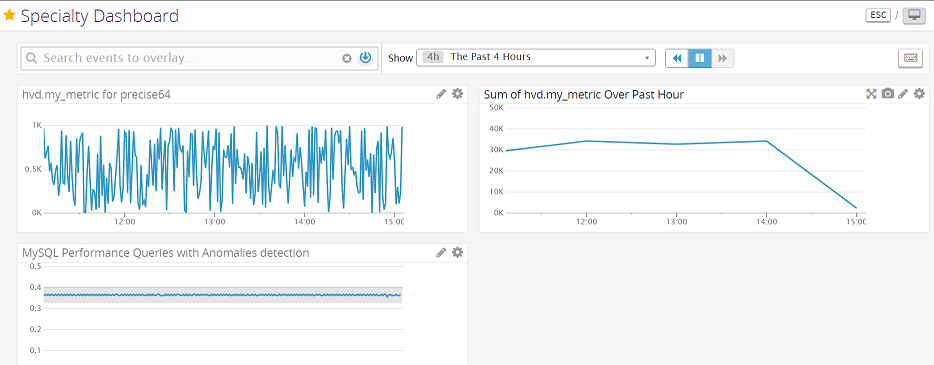
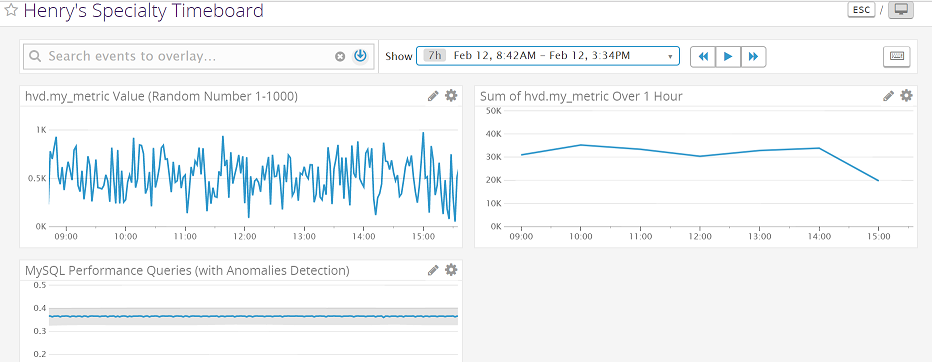
updates to answers.md and new image for specialty timeboard

diff --git a/answers.md b/answers.md
@@ -89,7 +89,8 @@ for "mysql" to see newly available metrics:
 Follow instructions [here](https://docs.datadoghq.com/agent/agent_checks/) 
 to create a custom Agent check.
 
-Here's an example of a custom Agent check (`/etc/dd-agent/checks.d/my_check.py`)
+Here's an example of a custom Agent check (`/etc/dd-agent/checks.d/my_check.py`, 
+GitHub link [here](https://github.com/henrydoan/hiring-engineers/blob/master/my_check.py))
 that submits a metric named `hvd.my_metric` with a random value between 
 0 and 1000:
 
@@ -107,7 +108,8 @@ if __name__ == '__main__':
     check.check(instance)
     print 'Metrics: %s' % (check.get_metrics())
 ```
-Here's the corresponding yaml file (`/etc/dd-agent/conf.d/my_check.yaml`):
+Here's the corresponding yaml file (`/etc/dd-agent/conf.d/my_check.yaml`, GitHub
+link [here](https://github.com/henrydoan/hiring-engineers/blob/master/my_check.yaml)):
 
 ```yaml
 init_config:
@@ -115,7 +117,6 @@ init_config:
 instances:
       [{}]
 ```
-
 
 ### Bonus Question
 
@@ -133,21 +134,99 @@ init_config:
 
 # Visualizing Data
 
-### TimeBoards
+### TimeBoards 
 
-Here's a TimeBoard that displays the custom metric from above scoped 
-over the host it's configured on, that metric with the rollup function 
-applied, and the MySQL Performance Queries metric (anomaly function 
-applied): 
-
-
-Link [here](https://app.datadoghq.com/dash/560047/specialty-dashboard?live=true&page=0&is_auto=false&from_ts=1518372516895&to_ts=1518386916895&tile_size=m)
-
-Screenshot:
+["Henry's Specialty Timeboard"](https://app.datadoghq.com/dash/563327/henrys-specialty-timeboard?live=false&page=0&is_auto=false&from_ts=1518450156022&to_ts=1518474891505&tile_size=m&tv_mode=true)
+displays: 
+- `hvd.my_metric` custom metric scoped over the host it's configured on
+- `hvd.my_metric` with the rollup function applied
+- MySQL Performance Queries metric (anomaly function applied)
 
 ![specialty_timeboard](images/specialty_timeboard.png)
 
-### On-Demand Time Range Selection and Snapshots/Annotations
+### Customize Views in Code
+
+The TimeBoard above was created via a [custom script](https://github.com/henrydoan/hiring-engineers/blob/master/hvdTimeboard.py)
+leveraging the Datadog API (more details [here](https://docs.datadoghq.com/api/?lang=python#create-a-timeboard)). 
+
+```python
+from datadog import initialize, api
+
+options = {
+    'api_key': 'd81b4c03c052be98c0b368cf8606ba68',
+    'app_key': '67f28e01e42e14f2273b8cfaca23ea88921574d5'
+}
+
+initialize(**options)
+
+title = "Henry's Specialty Timeboard"
+description = "Timeboard for Henry Doan's recruiting candidate exercise"
+graphs = [{
+	"definition": {
+		"viz": "timeseries",
+		"requests": [
+       		  {
+               		"q": "avg:hvd.my_metric{host:precise64}",
+               		"type": "line",
+               		"style": {
+                       		"palette": "dog_classic",
+                       		"type": "solid",
+                       		"width": "normal"
+               		},
+               		"conditional_formats": [],
+               		"aggregator": "avg"
+       		  }
+        	],
+   	},
+    	"title": "hvd.my_metric Value (Random Number 1-1000)"
+},
+{
+   	"definition": {
+  		"viz": "timeseries",
+  		"requests": [
+    		  {
+      			"q": "avg:hvd.my_metric{host:precise64}.rollup(sum, 3600)",
+      			"type": "line",
+      			"style": {
+        			"palette": "dog_classic",
+        			"type": "solid",
+        		"width": "normal"
+      		  	},
+      		"conditional_formats": [],
+      		"aggregator": "avg"
+    		  }
+  		],
+	},
+	"title": "Sum of hvd.my_metric Over 1 Hour"
+},
+{
+        "definition": {
+                "viz": "timeseries",
+                "requests": [
+                  {
+			"q": "anomalies(avg:mysql.performance.queries{host:precise64}, 'adaptive', 2)",
+                        "type": "line",
+                        "style": {
+                                "palette": "dog_classic",
+                                "type": "solid",
+                        	"width": "normal"
+                        },
+                "conditional_formats": [],
+                "aggregator": "avg"
+                  }
+                ],
+        },
+        "title": "MySQL Performance Queries (with Anomalies Detection)"
+}]
+
+read_only = True
+api.Timeboard.create(title=title,
+                     description=description,
+                     graphs=graphs,
+                     read_only=read_only)
+```
+
+### On-Demand Time Range Selection
 
 To specify a time range you're interested in, simply click-and-drag
 that section of the graph:
@@ -158,6 +237,8 @@ The TimeBoard's time range will automatically update with the custom
 time range:  
 
 ![click_n_drag_2](images/click_n_drag_2.png)
+
+### Snapshots & Annotations
 
 To create an annotation, click the "Snapshot" icon...
 
@@ -185,7 +266,7 @@ an anomaly.
 ### Metric Monitor
 
 In this example, we create a new Metric Monitor that watches the average 
-of the custom metric `hvd.my_metric` that will alert if it's above the 
+of the custom metric `hvd.my_metric` and will alert if it's above the 
 following values over the past 5 minutes: 
 
 - Warning threshold of 500
